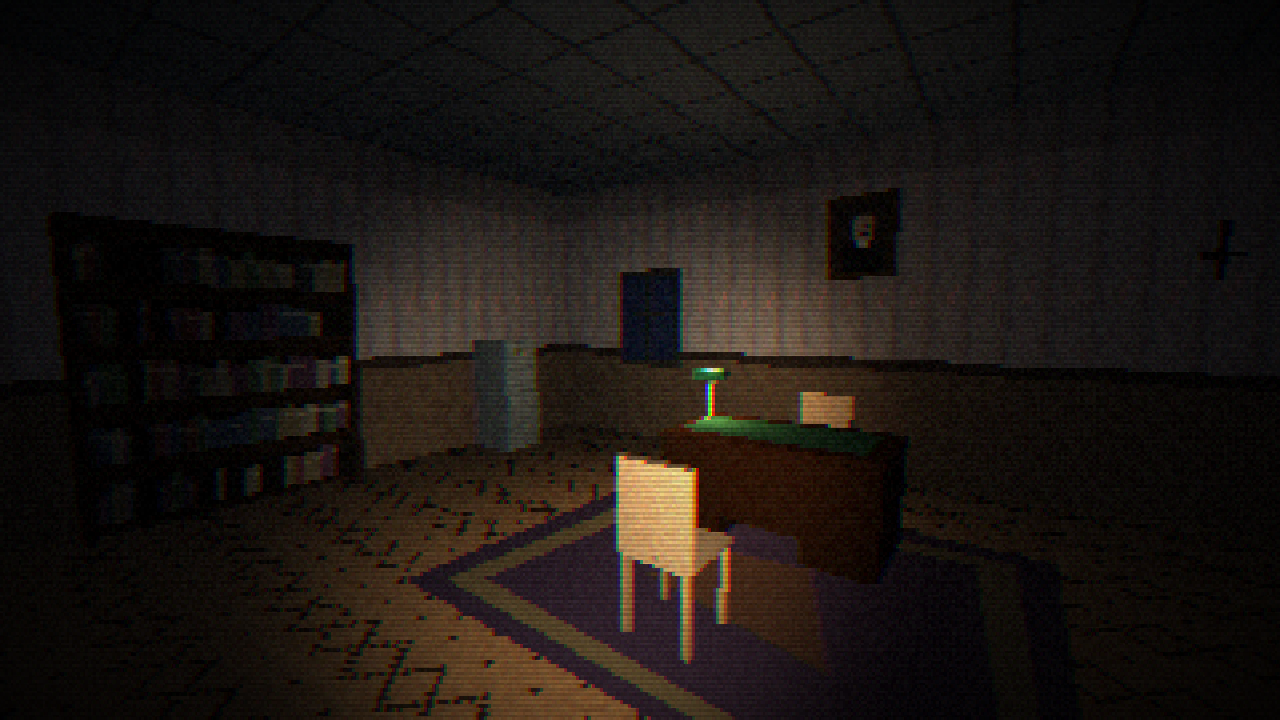
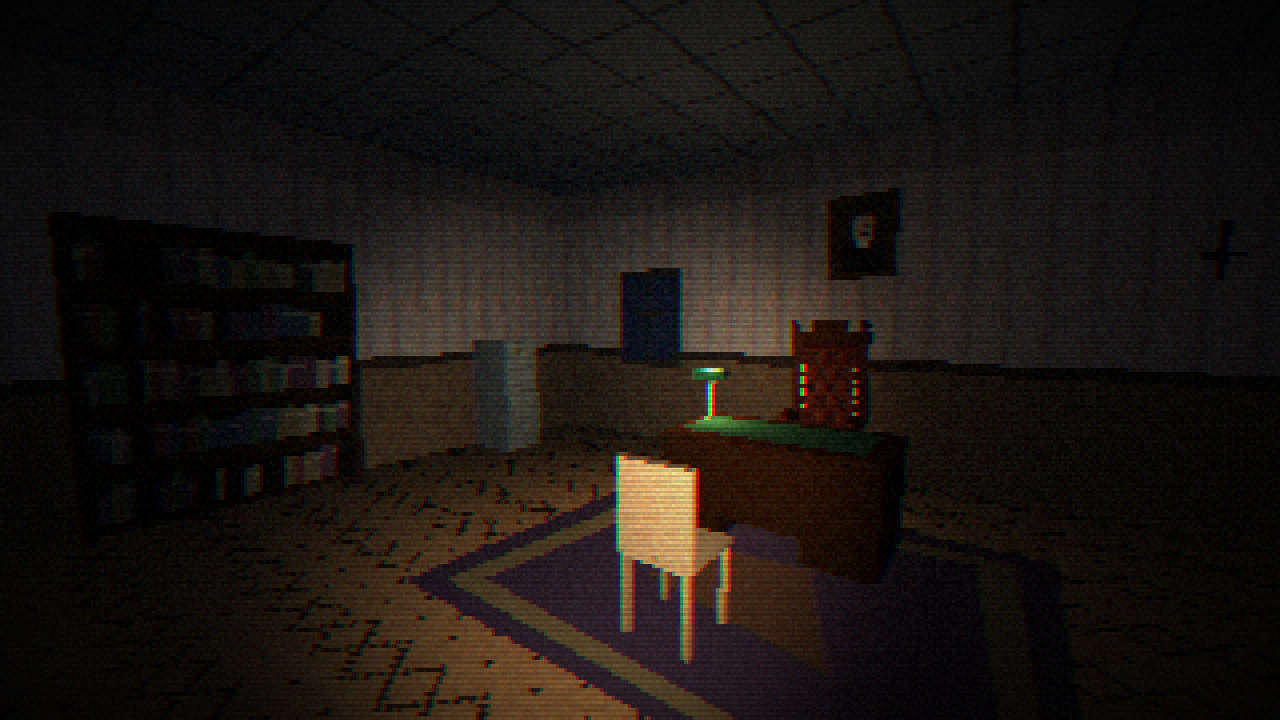
0.2.28: part B stills approved; a proper headmaster's chair
The owner approved all nine part B stills with one change: the
headmaster's chair should fit a headmaster. New headChair prop: high
back, buttoned oxblood leather with brass studs, a carved frame with a
crest and finials, arms. head_office is reshot with it. The empty desk
at the roll call and the Classroom 3 board text stay as drawn; the
approvals are recorded in DESIGN_0.3.md and HANDOFF.md.

Claude-Session: https://claude.ai/code/session_01Kt2ajWcwzg7QhP3mDk3ZUu

Changed region(s): [[0.5938, 0.4278, 0.6875, 0.6111]]

diff --git a/src/props/upstairs.js b/src/props/upstairs.js
@@ -151,6 +151,58 @@ function pedestalDesk(t) {
   return group(...parts);
 }
 
+// Oxblood leather, deep-buttoned in diamonds, brass studs round the edge.
+function buttonedLeatherTexture() {
+  const near = (value) => Math.abs(value - Math.round(value));
+  return canvasTexture(24, 32, (g, w, h) => {
+    for (let y = 0; y < h; y++) {
+      for (let x = 0; x < w; x++) {
+        const u = near((x + 0.5) / 8 + (y + 0.5) / 10);
+        const v = near((x + 0.5) / 8 - (y + 0.5) / 10);
+        const edge = x === 0 || y === 0 || x === w - 1 || y === h - 1;
+        const stud = (x === 1 || y === 1 || x === w - 2 || y === h - 2) && (x + y) % 2 === 0;
+        if (edge) g.fillStyle = '#240a08';
+        else if (stud) g.fillStyle = '#b89048';
+        else if (u < 0.1 && v < 0.1) g.fillStyle = '#160404'; // a button
+        else if (u < 0.06 || v < 0.06) g.fillStyle = '#1c0907'; // a crease
+        else g.fillStyle = Math.min(u, v) > 0.22 ? '#3a1710' : '#2e120c'; // puffed between
+        g.fillRect(x, y, 1, 1);
+      }
+    }
+  });
+}
+
+// The headmaster's chair: high-backed, buttoned oxblood leather on a dark
+// carved frame (the wood of his desk), with arms, finials and a crest.
+function headChair(t) {
+  const wood = { color: '#4a2e1c' };
+  const leather = buttonedLeatherTexture();
+  const finial = (x) => {
+    const knob = mesh(new THREE.SphereGeometry(0.05, 6, 4), t.paintedWood, wood);
+    knob.position.set(x, 1.52, -0.25);
+    return knob;
+  };
+  const parts = [
+    box(t.paintedWood, [0.62, 0.08, 0.56], [0, 0.36, 0], wood), // the seat frame
+    box(leather, [0.52, 0.08, 0.5], [0, 0.44, 0.02]), // the seat
+    box(leather, [0.5, 0.86, 0.06], [0, 0.52, -0.22]), // the back
+    box(t.paintedWood, [0.66, 0.1, 0.08], [0, 1.38, -0.25], wood), // the top rail
+    box(t.paintedWood, [0.3, 0.1, 0.06], [0, 1.48, -0.25], wood), // the crest
+    finial(-0.29),
+    finial(0.29),
+  ];
+  for (const x of [-0.28, 0.28]) {
+    parts.push(
+      box(t.paintedWood, [0.06, 0.36, 0.06], [x, 0, 0.24], wood), // front leg
+      box(t.paintedWood, [0.07, 1.46, 0.07], [x, 0, -0.25], wood), // back leg and post
+      box(t.paintedWood, [0.05, 0.26, 0.05], [x, 0.44, 0.22], wood), // arm support
+      box(t.paintedWood, [0.07, 0.04, 0.56], [x, 0.7, -0.01], wood), // arm
+      box(leather, [0.06, 0.03, 0.34], [x, 0.74, 0.02]), // arm pad
+    );
+  }
+  return group(...parts);
+}
+
 // An upholstered armchair, worn dark red.
 function armchair(t) {
   const fabric = { color: '#5a2424' };
@@ -289,6 +341,6 @@ function ghostPupil(t, { opacity = 0.45, turn = 0 } = {}) {
 }
 
 export const UPSTAIRS_PROPS = {
-  schoolBell, projector, projectorScreen, pedestalDesk, armchair, bedsideCupboard, wardrobe, gramophone, hatStand, stairHead, sideTable,
+  schoolBell, projector, projectorScreen, pedestalDesk, headChair, armchair, bedsideCupboard, wardrobe, gramophone, hatStand, stairHead, sideTable,
   ghostPupil,
 };

diff --git a/tools/levels/school_part_b.py b/tools/levels/school_part_b.py
@@ -127,7 +127,7 @@ def class4(L, c4):
 def office(L, off):
     L.prop(off, 'rug', 3.5, 2.3, width=3.2, depth=2.6)
     L.prop(off, 'pedestalDesk', 3.5, 1.8)
-    L.prop(off, 'chair', 3.5, 1.05)
+    L.prop(off, 'headChair', 3.5, 1.05)  # his: high-backed, buttoned leather (owner 2026-10-24)
     L.prop(off, 'chair', 3.5, 2.95, 180)
     L.prop(off, 'deskLamp', 2.95, 1.65, 20, y=0.76, lit=True)
     L.prop(off, 'paperSheet', 3.75, 1.75, 12, y=0.765)  # the inspector's report

diff --git a/docs/DESIGN_0.3.md b/docs/DESIGN_0.3.md
@@ -19,6 +19,9 @@ the first set on 2026-10-13, the rest in a question-and-answer session on 2026-1
   main stairs.
 - **Part A3 stills approved (2026-10-19):** chalk_hint, chalk_taunt and class1_turned, built as
   drawn (0.2.23, see "Maggie's tricks as built").
+- **Part B stills approved (2026-10-24):** all nine (see "Part B stills"), with one change: the
+  headmaster gets a chair fit for a headmaster (head_office reshot, 0.2.28). Kept: Tommy's empty
+  desk at the roll call, and the Classroom 3 board "Form III / Monday, 2nd February".
 - **Piano stickers:** every colour also has its own shape, always on (owner pick): red circle,
   orange square, yellow triangle, green diamond, blue star, purple cross. The song page shows the
   same shapes, so colour-blind players can play it.
@@ -281,9 +284,10 @@ lines are in the content sheet.
 - The debug overlay (F3) shows a CHALK line (time with no progress, the next words due, boards
   written) and a TRICKS line (what the trick still waits for).
 
-## Part B stills, waiting for the owner (0.2.26)
+## Part B stills (0.2.26, approved 2026-10-24)
 - Stills in `docs/mockups/stills-0.3/`: upstairs_corridor, stairs_down, bell, roll_call, class4,
-  projector_film, head_office, head_flat, ui_map_upstairs. Built only once approved.
+  projector_film, head_office, head_flat, ui_map_upstairs. All approved; head_office reshot with his
+  chair (0.2.28).
 - Layout (`tools/levels/school_part_b.py`, for now writing the mockup level
   `src/mockups/levels/school_upper.json`): the first floor over the east half of the school. The
   corridor runs east to west; Classrooms 3 and 4 lie to the south, over Classes 1 and 2; the
@@ -295,12 +299,16 @@ lines are in the content sheet.
 - The bell: an electric school bell high on the corridor wall between the classroom doors; ringing,
   its dome blurs, and every door stands banged open.
 - Roll call (Classroom 3): faint pupils at every desk but the one nearest the door (T. Hale's), with
-  blurred faces and black eyes, all turned to look at you. Board (mockup copy): "Form III / Monday,
-  2nd February" (the day Tommy was struck off).
+  blurred faces and black eyes, all turned to look at you (owner: keep the empty desk). Board (mockup
+  copy, owner: keep it): "Form III / Monday, 2nd February" (the day Tommy was struck off); when built,
+  it goes into en.json and el.json and onto the content sheet.
 - Classroom 4: the blinds down, a pull-down screen over the board, the projector on its trolley among
   the desks. The film: five children in a line in their smocks, in profile, but the middle one has
   turned to the camera; grain and scratches; the beam lights the dust.
-- Office: his pedestal desk with a green leather top and a lamp, the inspector's report on it, the
+- Office: his pedestal desk with a green leather top and a lamp, and his chair behind it (owner
+  2026-10-24: "appropriate for a headmaster"): high-backed, buttoned oxblood leather with brass
+  studs, a carved dark frame with a crest and finials, arms (`headChair`). The visitor's chair across
+  the desk stays a hard school chair. The inspector's report on the desk, the
   records cabinet with its number lock (approved still ui_codeLock), the Founder's portrait, a
   bookcase, a crucifix, a hat stand with his coat. Flat: a bed under a crucifix, the doctor's letter
   on the bedside cupboard by the lamp, an armchair and a gramophone by the window, a wardrobe, a

diff --git a/CHANGELOG.md b/CHANGELOG.md
@@ -2,6 +2,7 @@
 
 Newest first. One line per change.
 
+- 0.2.28 — Owner approved all nine part B stills, with one change: the headmaster now sits in a chair fit for a headmaster, high-backed and buttoned in dark oxblood leather with brass studs, on a carved frame with a crest and finials (the head_office still is reshot with it). Kept as drawn: Tommy's empty desk at the roll call and the Classroom 3 board, "Form III / Monday, 2nd February". Not in the game yet.
 - 0.2.27 — Tools, not the game: two more skills from the owner's claude-skills library, psx-horror-style (PS1 horror art direction: low-poly props, small textures, fog, sparse staging) and karpathy-guidelines (ask when unclear, change only what was asked, prove it with a test). The Superpowers and Matt Pocock skills are left out: they skip check-ins, start subagents or target TypeScript and issue trackers (.claude/skills/THIRD_PARTY.md says why).
 - 0.2.26 — Stills for owner approval (docs/mockups/stills-0.3), part B, the school's first floor, before it is built: coming up to the upstairs corridor; the head of the main stairs falling away into the dark; the bell ringing with the classroom doors banged open; the roll call in Classroom 3 (faint pupils with blurred faces and black eyes, all turned to you, one desk empty); Classroom 4 with the blinds down, the screen pulled down and the projector among the desks; the film (children in a line, one turned to the camera); the headmaster's office (his desk and lamp, the records cabinet with its number lock); his flat (the doctor's letter by the bed); and the first-floor plan in the journal. The floor's stairs line up with the ground floor's. Not in the game yet.
 - 0.2.25 — Owner decision recorded (docs/DESIGN_0.2.md): wing 1 keeps the gentler dark, although the bot's human-pace run now ends with no blackouts (about 3 an hour before; the brief aims for 2–4 deaths an hour on Normal). Its sanity still fell to 9 once, and a pill saved it.

diff --git a/docs/HANDOFF.md b/docs/HANDOFF.md
@@ -152,6 +152,7 @@ the part A and wing 1 playtests (checklist in the Claude Doc "Part A Playtest Ch
 playtest laptop, the content sheet, and the priority 1 sounds (Claude Doc "Sound List for 0.3 (School
 Wing)"). Then the pull request that puts 0.2.x on Pages, and part B stills.
 
-**Part B stills (2026-10-24):** the owner asked to start part B. Nine stills of the first floor are
-waiting for approval (0.2.26; see "Part B stills" in `docs/DESIGN_0.3.md`). Build nothing of part B
-until they are approved; then move the level from `src/mockups/levels/` to `src/levels/`.
+**Part B stills (2026-10-24):** the owner asked to start part B. Nine stills of the first floor
+(0.2.26; see "Part B stills" in `docs/DESIGN_0.3.md`) are approved, with a proper headmaster's
+chair (0.2.28). Building part B waits for the owner's go; it starts by moving the level from
+`src/mockups/levels/` to `src/levels/`.
